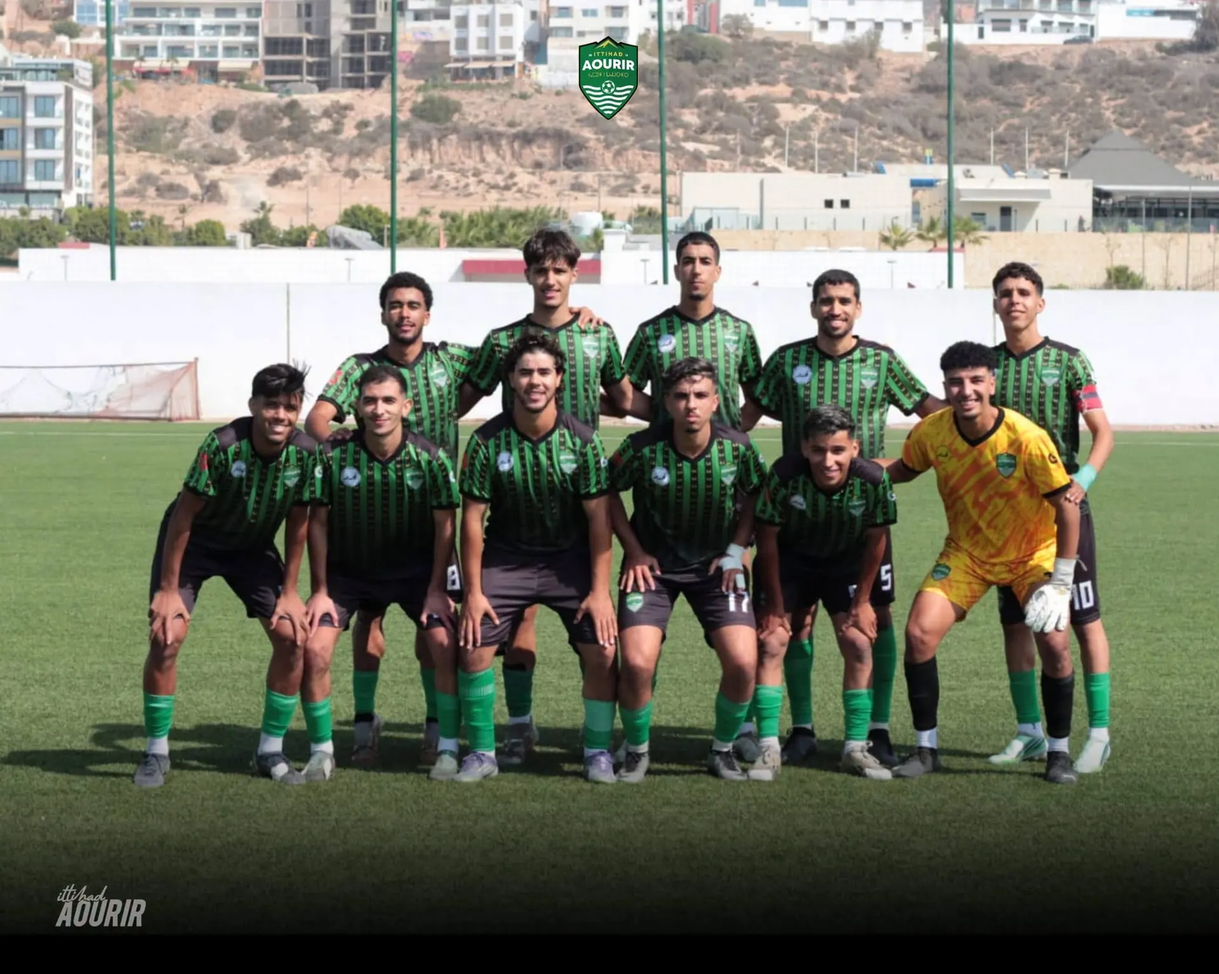
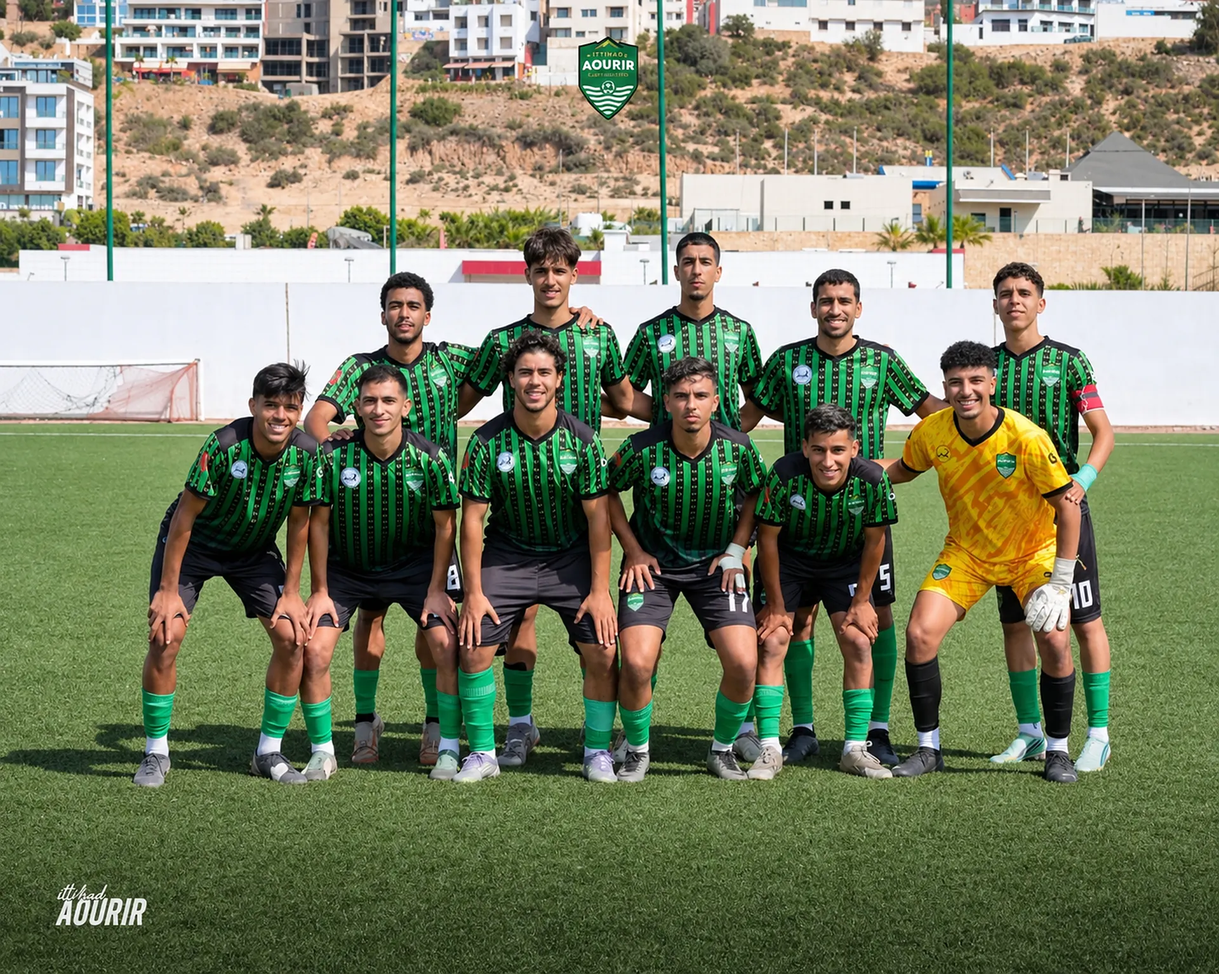
update photos

diff --git a/data/club.js b/data/club.js
@@ -179,8 +179,13 @@ window.USA_DATA = {
     { id: "pantalon", category: "training", price: 110, badge: "",
       images: ["img/shop/pantalon-1.webp", "img/shop/pantalon-2.webp", "img/shop/pantalon-full.webp"],
       sizes: ["S", "M", "L", "XL", "XXL"],
-      name: { fr: "Pantalon d’entraînement", ar: "سروال التدريب", en: "Training pants" },
+      name: { fr: "Pantalon d’entraînement noir", ar: "سروال التدريب الأسود", en: "Black training pants" },
       desc: { fr: "Pantalon noir ajusté, bas resserrés, poches zippées et écusson du club.", ar: "سروال أسود مضبوط، أطراف مشدودة، جيوب بسحاب وشعار النادي.", en: "Slim black pants with cuffed ankles, zipped pockets and the club crest." } },
+    { id: "pantalon-vert", category: "training", price: 110, badge: "new",
+      images: ["img/shop/pantalon-vert-1.webp", "img/shop/pantalon-vert-2.webp", "img/shop/pantalon-vert-full.webp"],
+      sizes: ["S", "M", "L", "XL", "XXL"],
+      name: { fr: "Pantalon d’entraînement vert", ar: "سروال التدريب الأخضر", en: "Green training pants" },
+      desc: { fr: "Pantalon vert ajusté, empiècements vert clair, bas resserrés, poches zippées, logo « US AOURIR » et écusson du club.", ar: "سروال أخضر مضبوط بلمسات خضراء فاتحة، أطراف مشدودة، جيوب بسحاب، شعار «US AOURIR» وشعار النادي.", en: "Slim green pants with light green panels, cuffed ankles, zipped pockets, “US AOURIR” logo and the club crest." } },
     { id: "echarpe", category: "supporters", price: 45, badge: "best",
       images: ["img/shop/echarpe-1.webp"], sizes: [],
       name: { fr: "Écharpe Ittihad Aourir", ar: "وشاح اتحاد أورير", en: "Ittihad Aourir scarf" },
